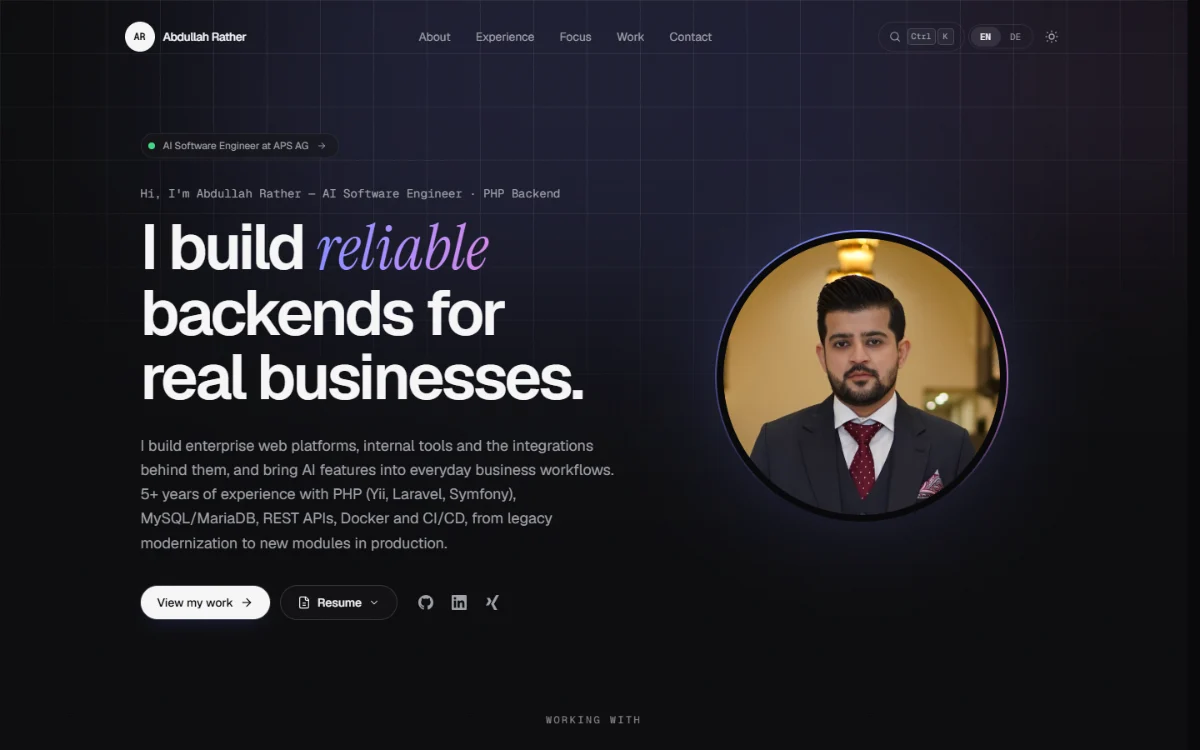
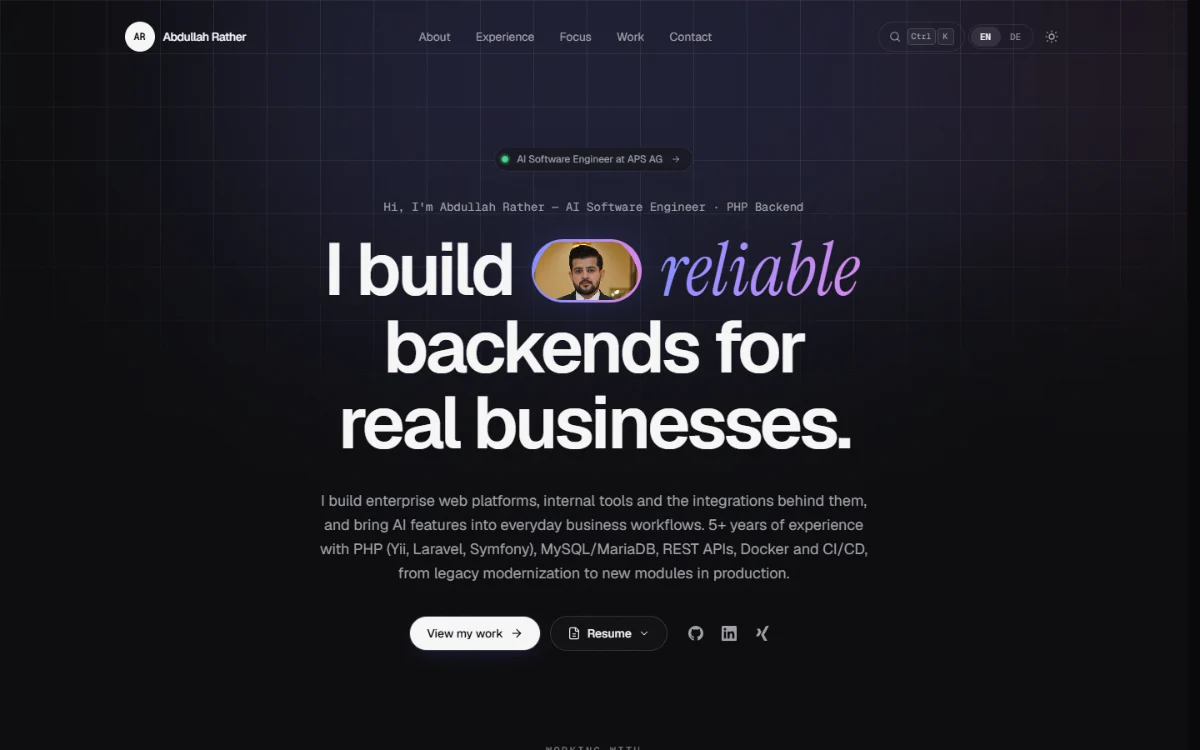
Rework the hero: a centred headline with the portrait set into it
The photo-beside-text layout is replaced by one centred column. The portrait
sits inside the headline as a pill the height of a letter. The phone headline
now scales with the screen, so long German words no longer run off the edge.

diff --git a/src/components/Hero.jsx b/src/components/Hero.jsx
@@ -79,30 +79,24 @@ const ResumeMenu = () => {
   );
 };
 
+/** The portrait, set into the headline as a pill the height of a letter. */
 const Portrait = () => {
   const { t } = useTranslation();
   return (
-    <div className="enter relative order-first mx-auto w-full max-w-32 sm:max-w-88 lg:order-none" style={delay(200)}>
-      {/* Glow */}
-      <div aria-hidden="true" className="absolute inset-6 -z-10 rounded-full bg-accent/30 blur-3xl" />
-
-      <div className="ring-conic relative aspect-square rounded-full p-0.5">
-        <div className="size-full rounded-full bg-bg p-2">
-          <picture>
-            <source srcSet="/images/profile-avatar.avif" type="image/avif" />
-            <img
-              src="/images/profile-avatar.webp"
-              alt={t("ui.a11y.portrait")}
-              width="640"
-              height="640"
-              fetchPriority="high"
-              decoding="async"
-              className="size-full rounded-full object-cover"
-            />
-          </picture>
-        </div>
-      </div>
-    </div>
+    <span className="mx-[0.06em] inline-block h-[0.86em] w-[1.5em] rounded-full bg-linear-to-r from-accent to-accent-2 p-[0.03em] align-[-0.1em] shadow-[0_0_3rem_-0.25rem_var(--glow)]">
+      <picture>
+        <source srcSet="/images/profile-avatar.avif" type="image/avif" />
+        <img
+          src="/images/profile-avatar.webp"
+          alt={t("ui.a11y.portrait")}
+          width="640"
+          height="640"
+          fetchPriority="high"
+          decoding="async"
+          className="size-full rounded-full object-cover object-[50%_22%]"
+        />
+      </picture>
+    </span>
   );
 };
 
@@ -111,73 +105,58 @@ const Hero = () => {
   const years = useExperienceYears();
 
   return (
-    <section id="top" className="relative overflow-hidden pb-16 pt-32 sm:pt-40 lg:pb-24">
-      <div className="container-x">
-        <div className="grid items-center gap-12 lg:grid-cols-[1.35fr_1fr] lg:gap-10">
-          <div className="text-center lg:text-left">
-            <a
-              href="#experience"
-              className="enter group inline-flex items-center gap-2.5 rounded-full border border-line bg-card py-1.5 pl-2 pr-3.5 text-xs text-muted backdrop-blur transition-colors hover:border-line-strong hover:text-fg"
-            >
-              <span className="relative flex size-2">
-                <span className="absolute inline-flex size-full animate-ping-slow rounded-full bg-ok opacity-60" />
-                <span className="relative inline-flex size-2 rounded-full bg-ok" />
-              </span>
-              {t("ui.available")}
-              <Icon name="arrowRight" className="size-3 transition-transform group-hover:translate-x-0.5" />
-            </a>
+    <section id="top" className="relative overflow-hidden pb-16 pt-32 sm:pt-44 lg:pb-24">
+      <div className="container-x text-center">
+        <a
+          href="#experience"
+          className="enter group inline-flex items-center gap-2.5 rounded-full border border-line bg-card py-1.5 pl-2 pr-3.5 text-xs text-muted backdrop-blur transition-colors hover:border-line-strong hover:text-fg"
+        >
+          <span className="relative flex size-2">
+            <span className="absolute inline-flex size-full animate-ping-slow rounded-full bg-ok opacity-60" />
+            <span className="relative inline-flex size-2 rounded-full bg-ok" />
+          </span>
+          {t("ui.available")}
+          <Icon name="arrowRight" className="size-3 transition-transform group-hover:translate-x-0.5" />
+        </a>
 
-            <p className="enter mt-8 font-mono text-sm text-muted" style={delay(60)}>
-              {t("ui.hero.greeting")}
-              <span className="hidden sm:inline"> — {t("hero.role")}</span>
-            </p>
+        <p className="enter mt-8 font-mono text-sm text-muted" style={delay(60)}>
+          {t("ui.hero.greeting")}
+          <span className="hidden sm:inline"> — {t("hero.role")}</span>
+        </p>
 
-            <h1
-              className="enter mt-4 text-[2.75rem] font-semibold leading-[1.02] tracking-[-0.045em] sm:text-6xl lg:text-[4.25rem] xl:text-[4.75rem]"
-              style={delay(120)}
-            >
-              {t("ui.hero.headline_a")} <span className="serif-em">{t("ui.hero.headline_em")}</span>{" "}
-              {t("ui.hero.headline_b")}
-            </h1>
+        <h1
+          className="enter mx-auto mt-5 max-w-5xl text-[clamp(1.9rem,9.6vw,2.6rem)] font-semibold leading-[1.04] tracking-[-0.045em] sm:text-7xl lg:text-[5.5rem]"
+          style={delay(120)}
+        >
+          {t("ui.hero.headline_a")} <Portrait /> <span className="serif-em">{t("ui.hero.headline_em")}</span>{" "}
+          {t("ui.hero.headline_b")}
+        </h1>
 
-            <p
-              className="enter mx-auto mt-7 max-w-xl text-base leading-relaxed text-muted sm:text-lg lg:mx-0"
-              style={delay(200)}
-            >
-              {t("hero.summary", { years })}
-            </p>
+        <p className="enter mx-auto mt-8 max-w-2xl text-base leading-relaxed text-muted sm:text-lg" style={delay(200)}>
+          {t("hero.summary", { years })}
+        </p>
 
-            <div
-              className="enter mt-9 flex flex-wrap items-center justify-center gap-3 lg:justify-start"
-              style={delay(280)}
-            >
-              <a href="#projects" className="btn btn-primary group">
-                {t("ui.hero.cta_work")}
-                <Icon
-                  name="arrowRight"
-                  className="size-4 transition-transform duration-300 group-hover:translate-x-0.5"
-                />
+        <div className="enter mt-9 flex flex-wrap items-center justify-center gap-3" style={delay(280)}>
+          <a href="#projects" className="btn btn-primary group">
+            {t("ui.hero.cta_work")}
+            <Icon name="arrowRight" className="size-4 transition-transform duration-300 group-hover:translate-x-0.5" />
+          </a>
+          <ResumeMenu />
+          <div className="ml-1 flex items-center gap-1">
+            {SOCIALS.map((s) => (
+              <a
+                key={s.id}
+                href={s.url}
+                target="_blank"
+                rel="noopener noreferrer"
+                className="icon-btn"
+                aria-label={s.name}
+                title={s.name}
+              >
+                <Icon name={s.id} className="size-4.5" />
               </a>
-              <ResumeMenu />
-              <div className="ml-1 flex items-center gap-1">
-                {SOCIALS.map((s) => (
-                  <a
-                    key={s.id}
-                    href={s.url}
-                    target="_blank"
-                    rel="noopener noreferrer"
-                    className="icon-btn"
-                    aria-label={s.name}
-                    title={s.name}
-                  >
-                    <Icon name={s.id} className="size-4.5" />
-                  </a>
-                ))}
-              </div>
-            </div>
+            ))}
           </div>
-
-          <Portrait />
         </div>
       </div>
 
